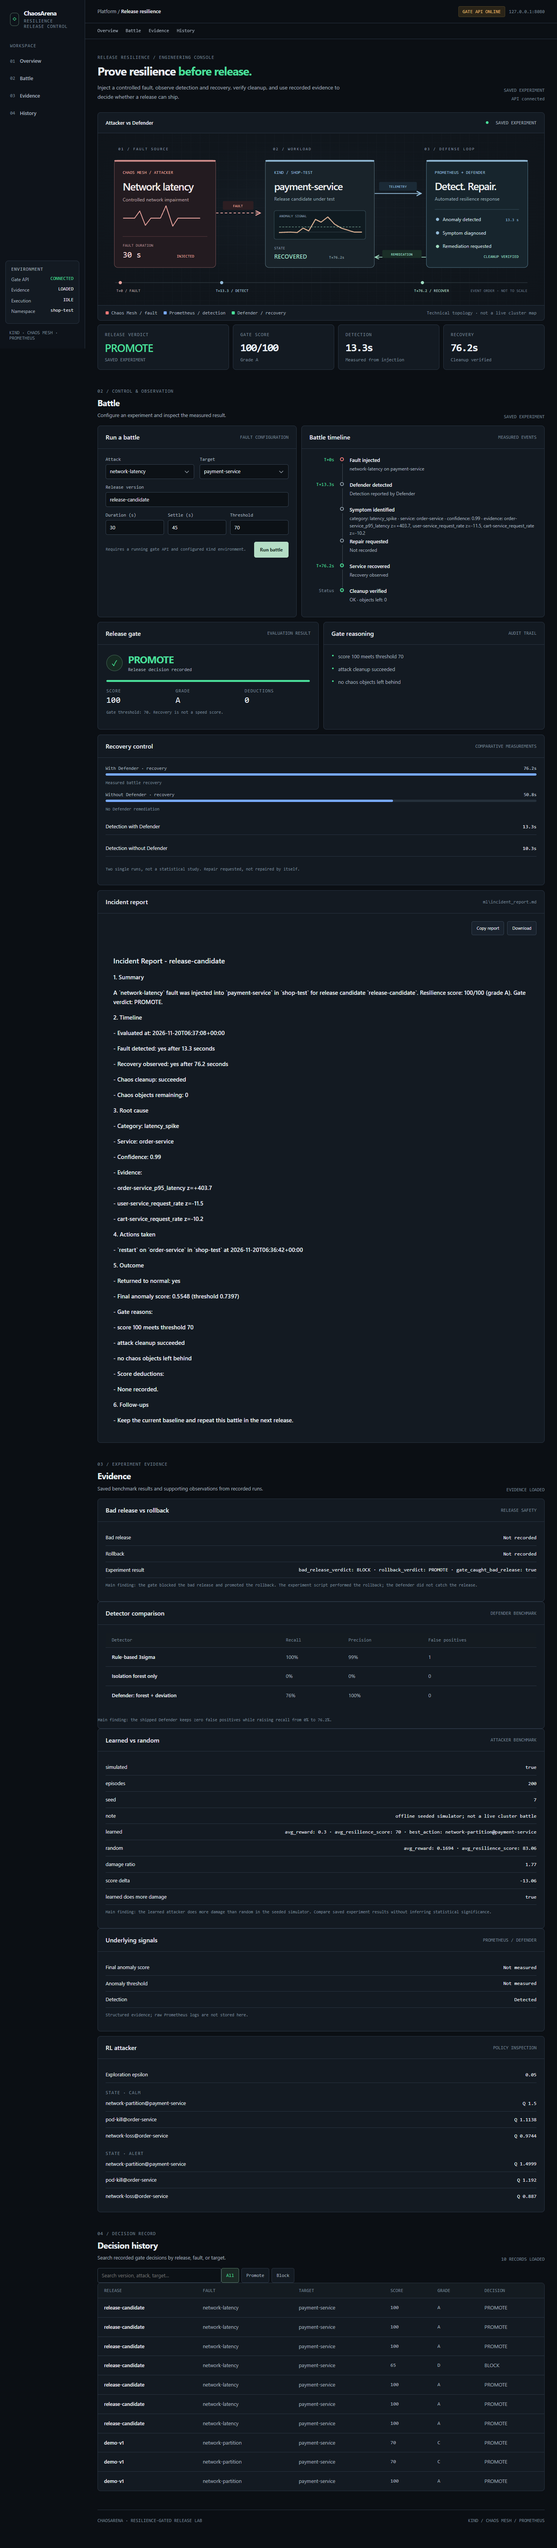
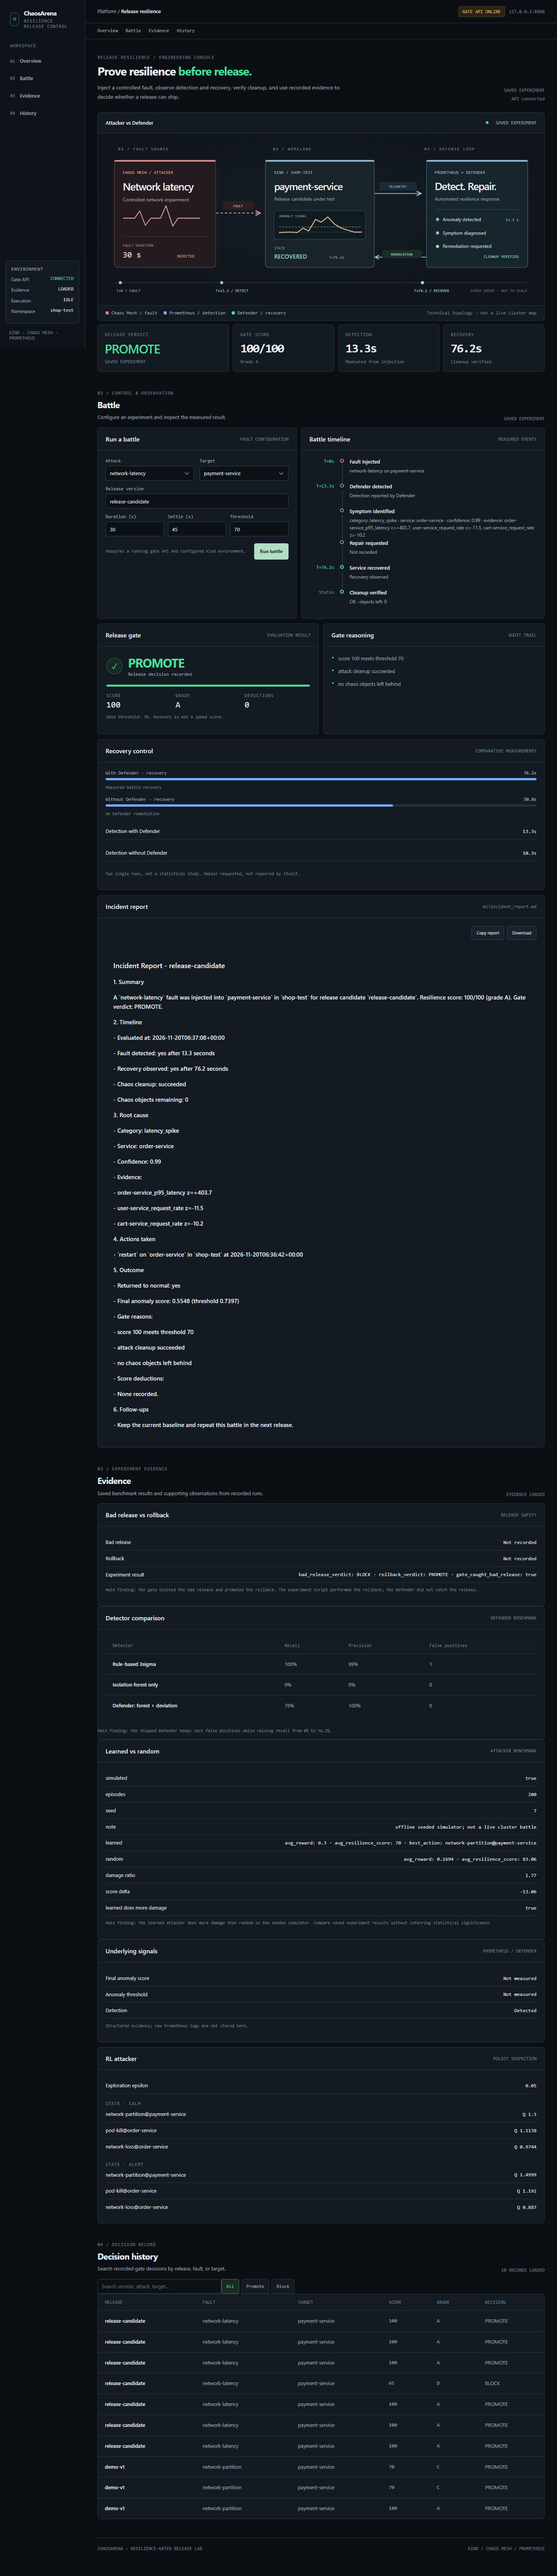
Refine typography, incident report, and evidence presentation

diff --git a/dashboard/src/styles.css b/dashboard/src/styles.css
@@ -440,12 +440,12 @@ button:focus-visible, a:focus-visible, input:focus-visible, select:focus-visible
 .kpi .overline { margin-bottom: 10px; }
 
 .kpi .number {
-  font: 600 28px/1.2 var(--mono);
+  font: 600 32px/1.2 var(--mono);
   letter-spacing: -0.05em;
 }
 
 .kpi .number.success {
-  font: 600 28px/1.2 var(--sans);
+  font: 600 32px/1.2 var(--sans);
   letter-spacing: -0.03em;
   color: var(--green);
 }
@@ -551,7 +551,7 @@ button:focus-visible, a:focus-visible, input:focus-visible, select:focus-visible
   color: var(--dim);
 }
 
-.note { margin-top: 14px; }
+.note { margin-top: 12px; }
 
 .timeline {
   padding: 18px 20px 14px;
@@ -638,7 +638,7 @@ button:focus-visible, a:focus-visible, input:focus-visible, select:focus-visible
 }
 
 .gateverdict h3 {
-  font-size: 26px;
+  font-size: 32px;
   line-height: 1.2;
   letter-spacing: -0.04em;
   margin: 0;
@@ -711,13 +711,13 @@ button:focus-visible, a:focus-visible, input:focus-visible, select:focus-visible
 }
 
 .evcard h3 {
-  font-size: 16px;
+  font-size: 17px;
   letter-spacing: -0.02em;
   margin: 10px 0 6px;
 }
 
 .evcard p {
-  font-size: 13px;
+  font-size: 14px;
   color: var(--muted);
   margin: 0;
   line-height: 1.6;
@@ -852,7 +852,7 @@ table {
 
 th {
   text-align: left;
-  padding: 12px 16px;
+  padding: 14px 18px;
   font: 12px var(--mono);
   color: var(--dim);
   background: #141b21;
@@ -860,7 +860,7 @@ th {
 }
 
 td {
-  padding: 14px 16px;
+  padding: 16px 18px;
   border-top: 1px solid var(--line);
   font-size: 13px;
   color: var(--muted);

diff --git a/fix_ui.py b/fix_ui.py
@@ -1,0 +1,34 @@
+from pathlib import Path
+p = Path("dashboard/src/styles.css")
+s = p.read_text(encoding="utf-8")
+repls = [
+ ("font: 10px var(--mono);", "font: 11px var(--mono);"),
+ ("font: 9px var(--mono);", "font: 10px var(--mono);"),
+ ("font: 11px var(--mono);", "font: 12px var(--mono);"),
+ ("font: 12px/1.8 var(--mono);", "font: 13px/1.8 var(--mono);"),
+ (".gateverdict h3 {\n  font-size: 26px;", ".gateverdict h3 {\n  font-size: 32px;"),
+ (".kpi .number {\n  font: 600 28px/1.2 var(--mono);", ".kpi .number {\n  font: 600 32px/1.2 var(--mono);"),
+ (".kpi .number.success {\n  font: 600 28px/1.2 var(--sans);", ".kpi .number.success {\n  font: 600 32px/1.2 var(--sans);"),
+ ("th {\n  text-align: left;\n  padding: 12px 16px;", "th {\n  text-align: left;\n  padding: 14px 18px;"),
+ ("td {\n  padding: 14px 16px;", "td {\n  padding: 16px 18px;"),
+ (".note { margin-top: 14px; }", ".note { margin-top: 12px; }"),
+ (".recovery-note {\n  font: 10px/1.7 var(--mono);", ".recovery-note {\n  font: 11px/1.7 var(--mono);"),
+ (".panelheader small {\n  font: 10px var(--mono);", ".panelheader small {\n  font: 11px var(--mono);"),
+ (".arenahead .right {\n  display: flex;\n  gap: 12px;\n  align-items: center;\n  font: 10px var(--mono);", ".arenahead .right {\n  display: flex;\n  gap: 12px;\n  align-items: center;\n  font: 11px var(--mono);"),
+ (".kpi .sub {\n  font: 10px var(--mono);", ".kpi .sub {\n  font: 11px var(--mono);"),
+ (".field label {\n  font: 11px var(--mono);", ".field label {\n  font: 12px var(--mono);"),
+ (".event .time {\n  font: 10px var(--mono);", ".event .time {\n  font: 11px var(--mono);"),
+ (".gateverdict p {\n  font: 10px var(--mono);", ".gateverdict p {\n  font: 11px var(--mono);"),
+ (".actions small, .note {\n  font: 10px/1.7 var(--mono);", ".actions small, .note {\n  font: 11px/1.7 var(--mono);"),
+ (".evcard h3 {\n  font-size: 16px;", ".evcard h3 {\n  font-size: 17px;"),
+ (".evcard p {\n  font-size: 13px;", ".evcard p {\n  font-size: 14px;"),
+ (".metric-row {\n  display: flex;", ".metric-row {\n  display: flex;"),
+]
+for a,b in repls:
+    if a in s:
+        s = s.replace(a,b)
+    else:
+        print("NOT FOUND:", a[:60])
+p.write_text(s, encoding="utf-8")
+print("done")
+PY
